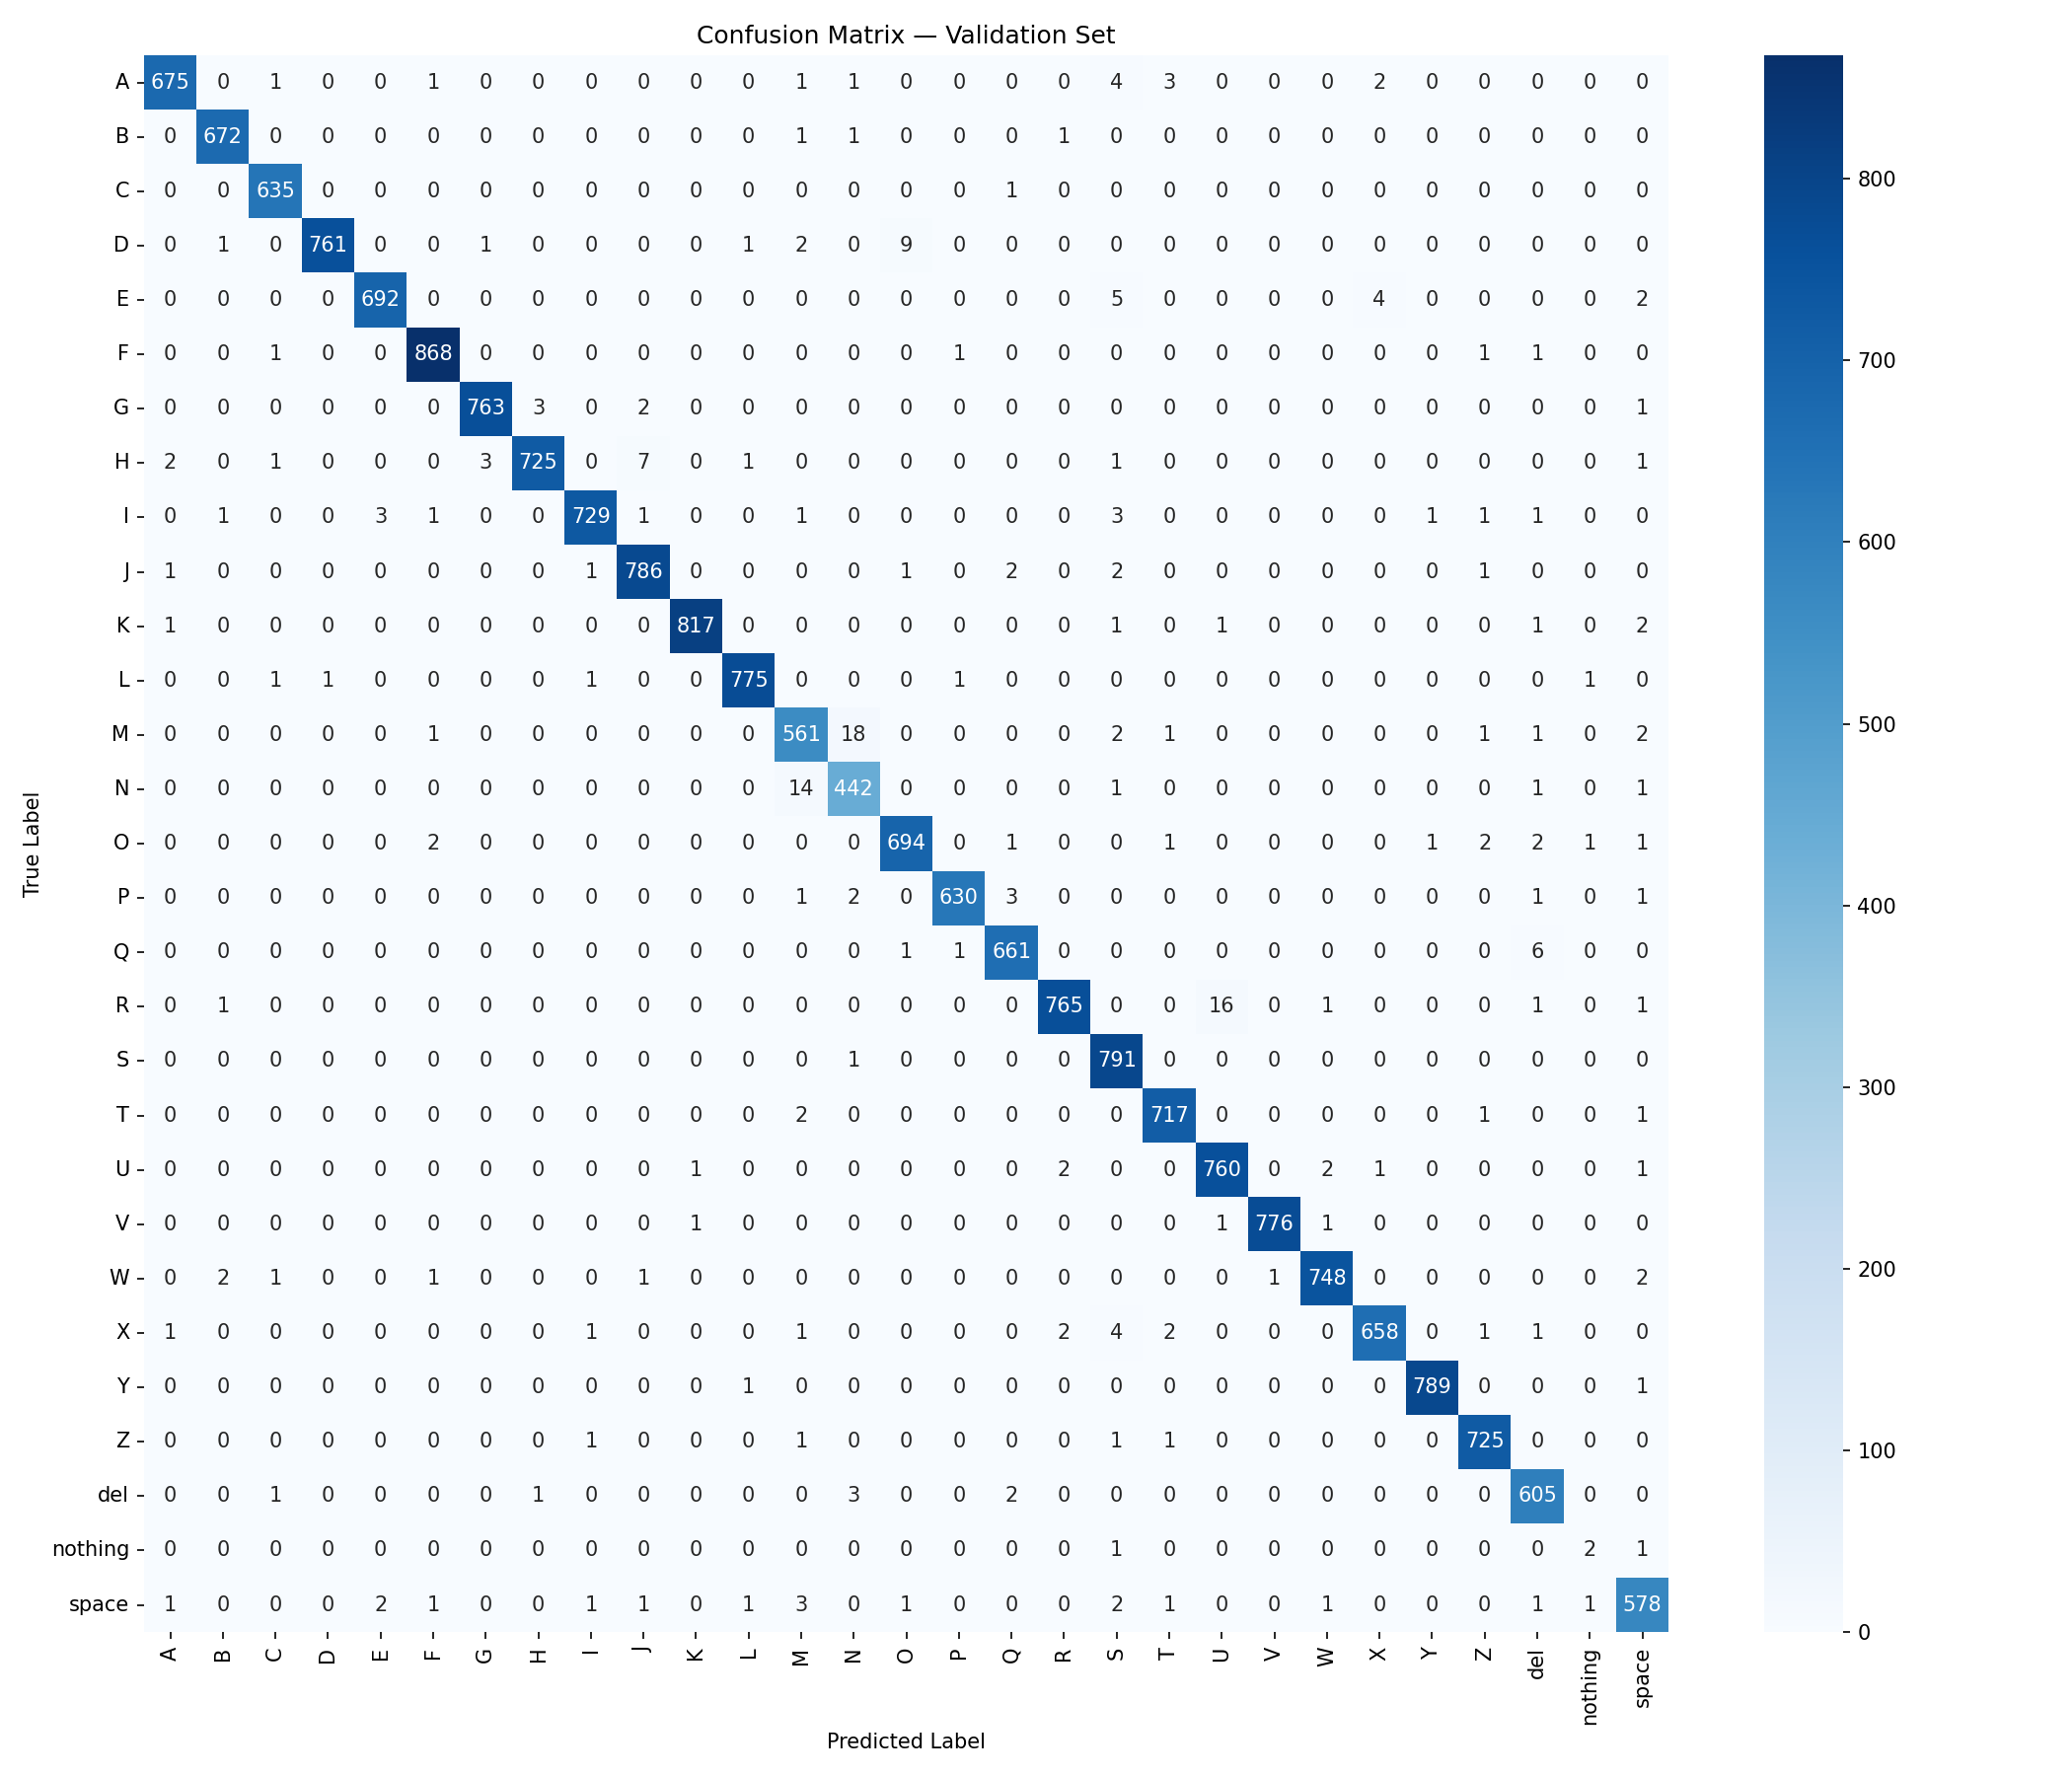
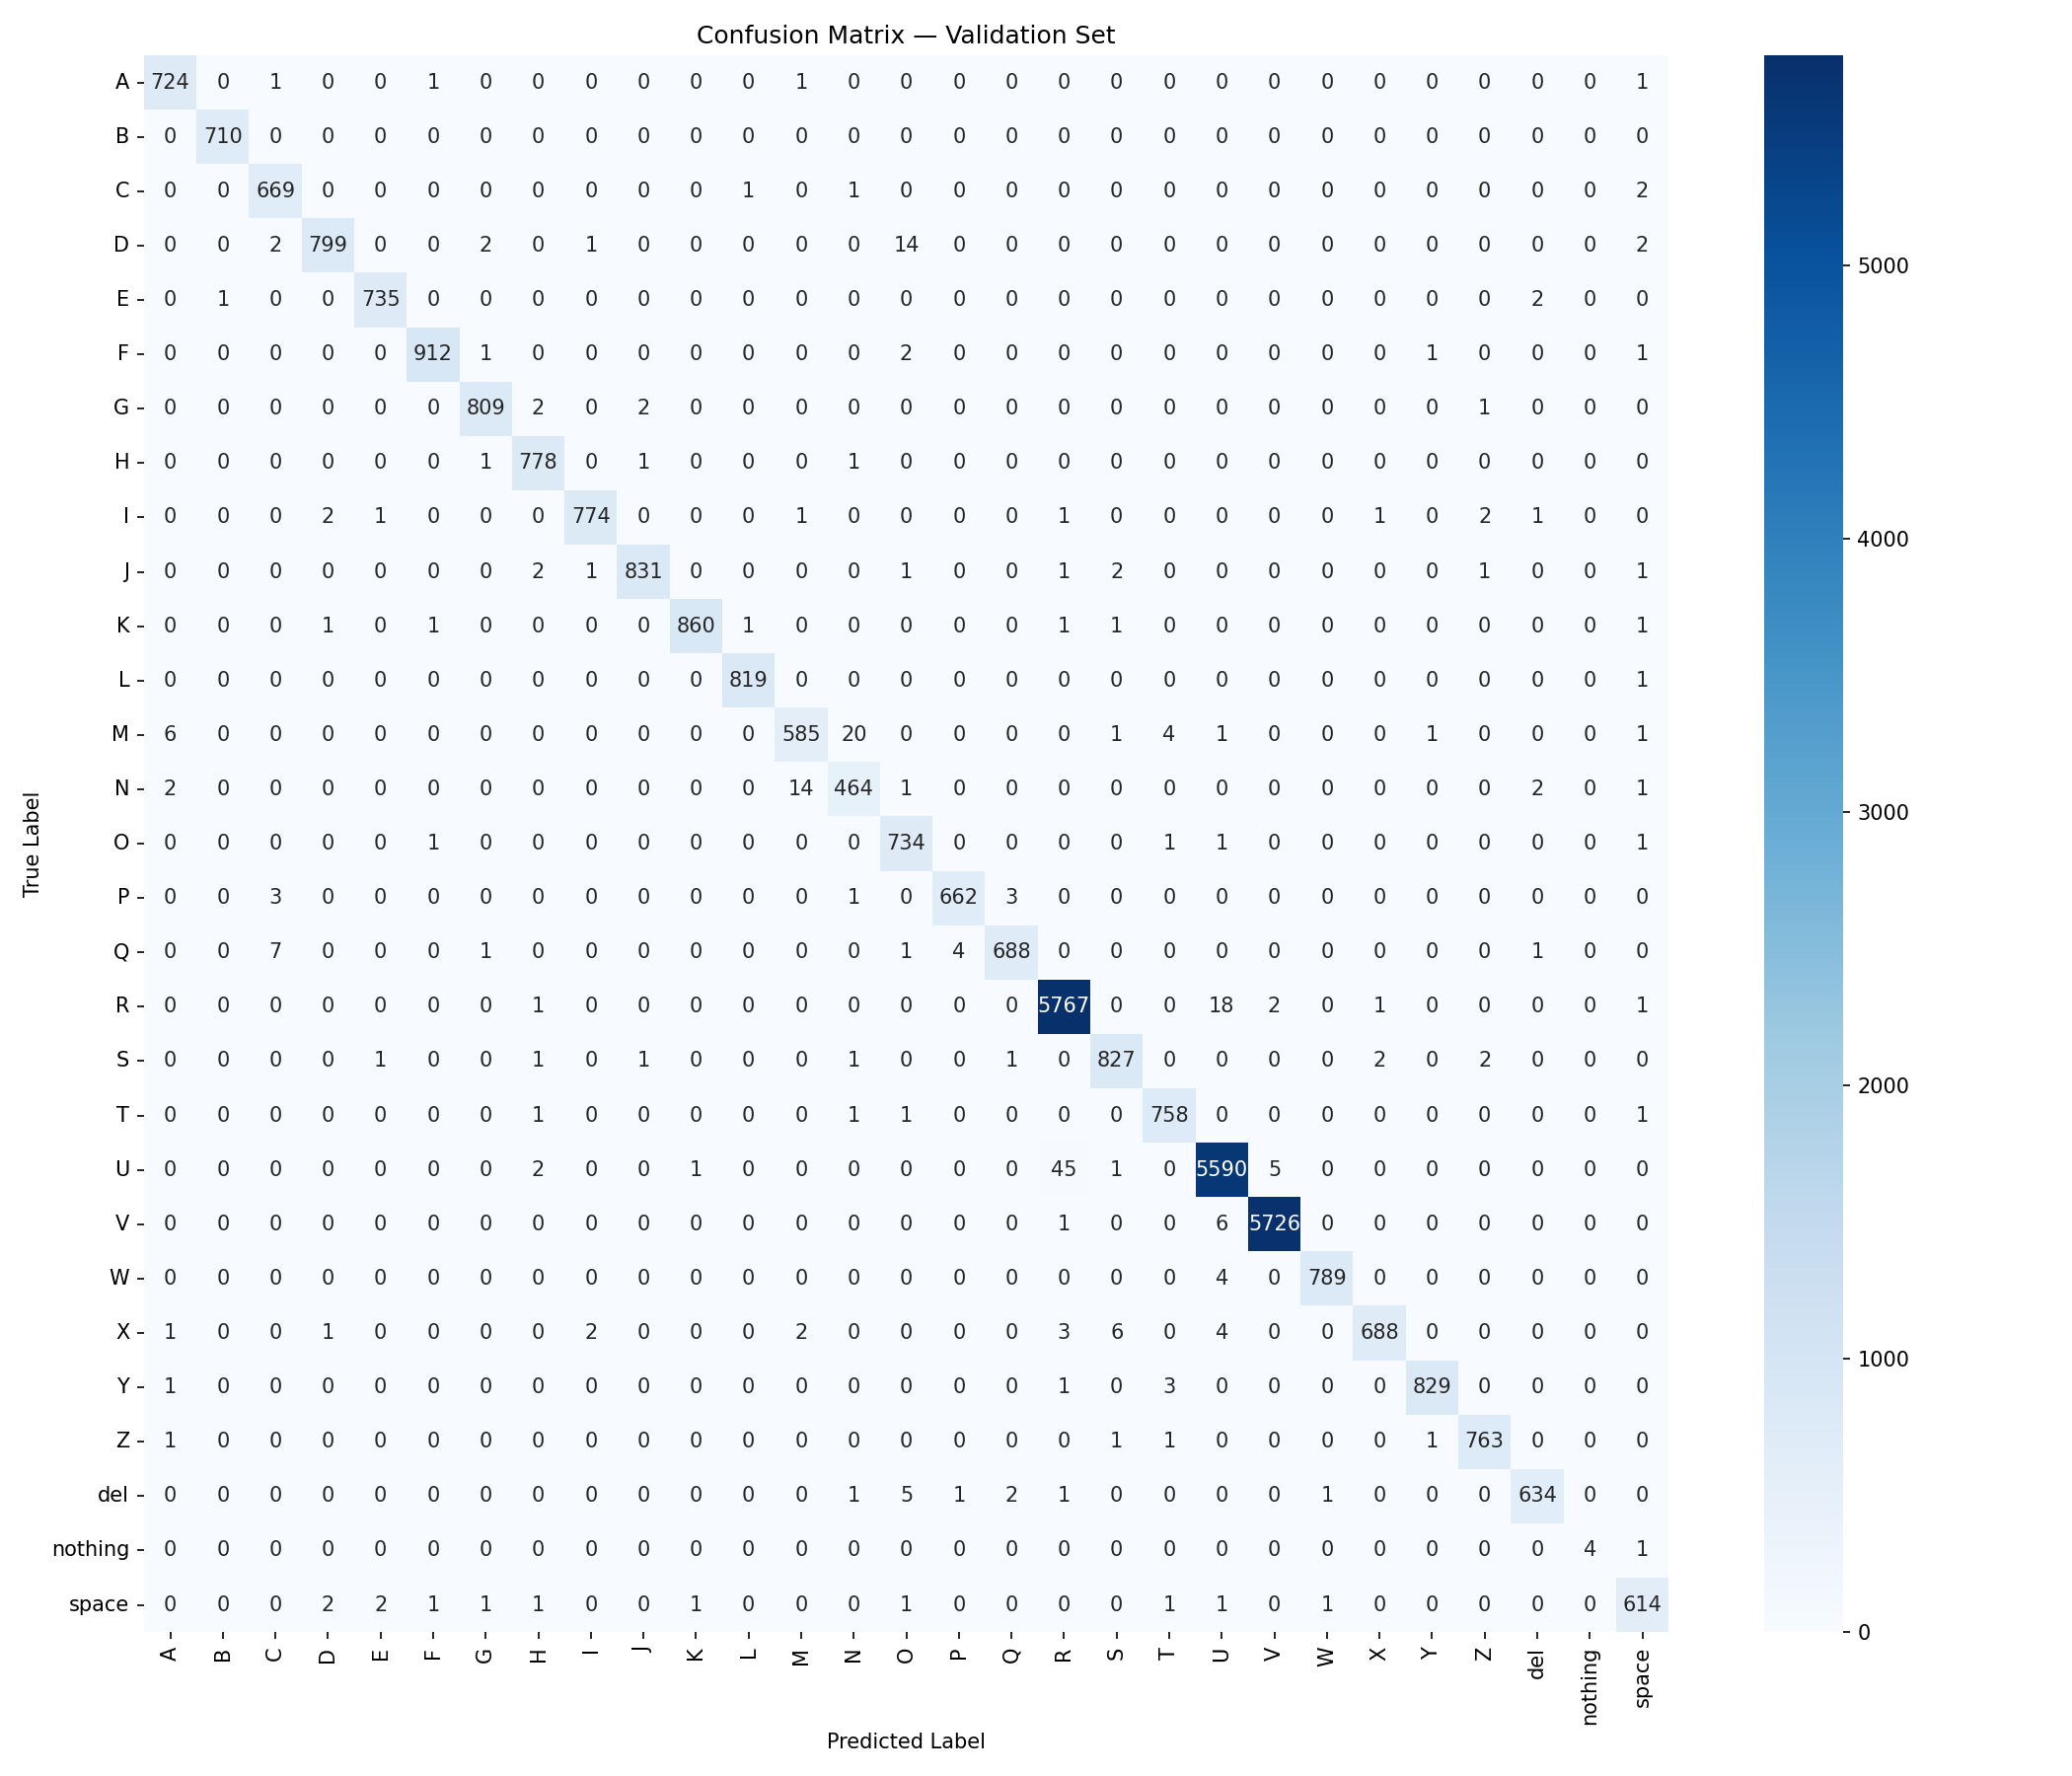
updated model to better differentiate r, u, and v

diff --git a/final-submission/CV_model.py b/final-submission/CV_model.py
@@ -1,45 +1,105 @@
 """
 Train an MLP classifier on MediaPipe hand landmarks to recognize ASL fingerspelling.
 
-Input:  landmarks.csv  — rows of (label, x0, y0, z0, ..., x20, y20, z20)
+Input:  landmarks.csv  — rows of (label, x0..z20) — 63 base dims
 Output: model.pkl      — trained sklearn MLPClassifier, ready for inference.py
 
-Architecture: 63 → 128 → 64 → 29 classes
+Architecture: 68 → 256 → 128 → 64 → C classes
+  (63 wrist-centered landmarks + 5 index–middle geometry features for R/U/V separation)
+
+Training extras:
+  - Mirror augmentation (left/right)
+  - Light pose jitter (rotation + noise) with extra copies for R, U, V
+  - Higher sample_weight on R, U, V
+
+Deps / venv (Windows): install into THIS folder's env so pip and python match, e.g.:
+  .\\env\\Scripts\\python.exe -m pip install -r requirements.txt
+  .\\env\\Scripts\\python.exe .\\CV_model.py
+Or run .\\install-training-deps.ps1 then use the same python.exe for training.
 """
 
 import pickle
-import pandas as pd
-import numpy as np
-from sklearn.neural_network import MLPClassifier
-from sklearn.model_selection import train_test_split
-from sklearn.preprocessing import LabelEncoder
-from sklearn.metrics import classification_report, confusion_matrix, accuracy_score
+
 import matplotlib.pyplot as plt
+import numpy as np
+import pandas as pd
 import seaborn as sns
+from sklearn.metrics import accuracy_score, classification_report, confusion_matrix
+from sklearn.model_selection import train_test_split
+from sklearn.neural_network import MLPClassifier
+from sklearn.preprocessing import LabelEncoder
+
+from landmark_features import (
+    FEATURE_DIM,
+    expand_feature_matrix,
+    mirror_base_x,
+    random_pose_augment,
+)
 
 LANDMARKS_CSV = "./landmarks.csv"
-MODEL_OUT     = "./model.pkl"
-ENCODER_OUT   = "./label_encoder.pkl"
-TEST_SIZE     = 0.15
-RANDOM_STATE  = 42
+MODEL_OUT = "./model.pkl"
+ENCODER_OUT = "./label_encoder.pkl"
+TEST_SIZE = 0.15
+RANDOM_STATE = 42
+
+# R / U / V: easy to confuse; give more synthetic views and loss weight
+RUV_LABELS = frozenset({"R", "U", "V"})
+RUV_EXTRA_AUG_PER_SAMPLE = 6
+RUV_SAMPLE_WEIGHT = 2.25
+POSE_NOISE_STD = 0.018
+POSE_MAX_ANGLE_RAD = 0.42
 
 # --- Load data ---
 print("Loading landmarks.csv...")
 df = pd.read_csv(LANDMARKS_CSV)
 print(f"  {len(df)} rows, {df['label'].nunique()} classes: {sorted(df['label'].unique())}")
 
-X = df.drop(columns=["label"]).values.astype(np.float32)
+X63 = df.drop(columns=["label"]).values.astype(np.float32)
 y = df["label"].values
 
-# Augment with mirrored (left-hand) versions of every sample by negating x coordinates.
-# x columns are at indices 0, 3, 6, ..., 60 (every 3rd starting at 0).
-X_mirrored = X.copy()
-X_mirrored[:, 0::3] *= -1
-X = np.concatenate([X, X_mirrored], axis=0)
+# --- Augment: mirror ---
+X_mirrored = mirror_base_x(X63)
+X63 = np.vstack([X63, X_mirrored])
 y = np.concatenate([y, y], axis=0)
-print(f"  After mirroring augmentation: {len(X)} total samples")
+print(f"  After mirroring: {len(X63)} samples")
 
-# --- Encode labels to integers ---
+# --- Extra pose jitter for R, U, V ---
+rng = np.random.default_rng(RANDOM_STATE)
+ruv_mask = np.isin(y, list(RUV_LABELS))
+extra_X = []
+extra_y = []
+for i in np.where(ruv_mask)[0]:
+    for _ in range(RUV_EXTRA_AUG_PER_SAMPLE):
+        aug = random_pose_augment(
+            X63[i],
+            rng,
+            noise_std=POSE_NOISE_STD,
+            max_angle_rad=POSE_MAX_ANGLE_RAD,
+        )
+        extra_X.append(aug)
+        extra_y.append(y[i])
+if extra_X:
+    X63 = np.vstack([X63, np.stack(extra_X, axis=0)])
+    y = np.concatenate([y, np.array(extra_y)], axis=0)
+    print(f"  After R/U/V pose augmentation: {len(X63)} samples (+{len(extra_y)} synthetic)")
+
+# --- Global light jitter (all classes) for robustness ---
+n_jitter = min(12_000, len(X63) // 4)
+if n_jitter > 0:
+    idx = rng.choice(len(X63), size=n_jitter, replace=False)
+    jitter_blocks = [
+        random_pose_augment(X63[i], rng, noise_std=POSE_NOISE_STD * 0.7, max_angle_rad=0.22)
+        for i in idx
+    ]
+    X63 = np.vstack([X63, np.stack(jitter_blocks, axis=0)])
+    y = np.concatenate([y, y[idx]], axis=0)
+    print(f"  After global light jitter: {len(X63)} samples")
+
+# --- Expand 63 → 68 ---
+X = expand_feature_matrix(X63)
+print(f"  Feature shape: {X.shape[1]} (= {FEATURE_DIM})")
+
+# --- Encode labels ---
 le = LabelEncoder()
 y_encoded = le.fit_transform(y)
 print(f"  Label mapping: {dict(zip(le.classes_, le.transform(le.classes_)))}")
@@ -50,19 +110,29 @@ X_train, X_val, y_train, y_val = train_test_split(
 )
 print(f"\nTrain: {len(X_train)} samples | Val: {len(X_val)} samples")
 
+ruv_class_idx = np.array(
+    [le.transform([c])[0] for c in RUV_LABELS if c in le.classes_],
+    dtype=int,
+)
+sample_weight = np.ones(len(y_train), dtype=np.float64)
+for j in ruv_class_idx:
+    sample_weight[y_train == j] = RUV_SAMPLE_WEIGHT
+
 # --- Train MLP ---
 print("\nTraining MLP...")
 model = MLPClassifier(
-    hidden_layer_sizes=(128, 64),
+    hidden_layer_sizes=(256, 128, 64),
     activation="relu",
-    max_iter=500,
+    alpha=1e-4,
+    max_iter=900,
     random_state=RANDOM_STATE,
     verbose=True,
     early_stopping=True,
     validation_fraction=0.1,
-    n_iter_no_change=15,
+    n_iter_no_change=20,
+    learning_rate_init=0.001,
 )
-model.fit(X_train, y_train)
+model.fit(X_train, y_train, sample_weight=sample_weight)
 
 # --- Evaluate ---
 y_pred = model.predict(X_val)
@@ -71,12 +141,32 @@ print(f"\nValidation accuracy: {acc:.4f} ({acc*100:.2f}%)")
 print("\nPer-class report:")
 print(classification_report(y_val, y_pred, target_names=le.classes_))
 
+# Highlight R, U, V confusion
+ruv_names = sorted(RUV_LABELS & set(le.classes_))
+if ruv_names:
+    print("\nR / U / V subset report:")
+    mask = np.isin(le.inverse_transform(y_val), ruv_names)
+    if mask.any():
+        print(
+            classification_report(
+                y_val[mask],
+                y_pred[mask],
+                labels=[le.transform([n])[0] for n in ruv_names],
+                target_names=ruv_names,
+                zero_division=0,
+            )
+        )
+
 # --- Confusion matrix ---
 cm = confusion_matrix(y_val, y_pred)
 plt.figure(figsize=(14, 12))
 sns.heatmap(
-    cm, annot=True, fmt="d", cmap="Blues",
-    xticklabels=le.classes_, yticklabels=le.classes_
+    cm,
+    annot=True,
+    fmt="d",
+    cmap="Blues",
+    xticklabels=le.classes_,
+    yticklabels=le.classes_,
 )
 plt.title("Confusion Matrix — Validation Set")
 plt.ylabel("True Label")
@@ -85,7 +175,7 @@ plt.tight_layout()
 plt.savefig("confusion_matrix.png", dpi=150)
 print("\nConfusion matrix saved to confusion_matrix.png")
 
-# --- Save model and encoder ---
+# --- Save ---
 with open(MODEL_OUT, "wb") as f:
     pickle.dump(model, f)
 with open(ENCODER_OUT, "wb") as f:

diff --git a/final-submission/inference.py b/final-submission/inference.py
@@ -19,11 +19,13 @@ import pickle
 import collections
 import cv2
 import mediapipe as mp
+
+from landmark_features import base_vector_from_mediapipe, expand_features
 from mediapipe.tasks import python
 from mediapipe.tasks.python import vision
 
 # --- Tunable UX parameters ---
-CONFIRM_FRAMES = 60   # frames a sign must be held before committing — lower = faster, higher = more deliberate
+CONFIRM_FRAMES = 20   # frames a sign must be held before committing — lower = faster, higher = more deliberate
 SMOOTH_WINDOW  = 7    # rolling window size for prediction smoothing
 
 MODEL_PATH          = "./model.pkl"
@@ -79,18 +81,13 @@ def init_landmarker(path):
 
 
 def extract_landmarks(result):
-    """Return normalized 63-length feature vector, or None if no hand detected."""
+    """Return model feature vector (63 base + geometry extras), or None if no hand."""
     if not result.hand_landmarks:
         return None
 
     lm = result.hand_landmarks[0]
-    wrist_x, wrist_y, wrist_z = lm[0].x, lm[0].y, lm[0].z
-    coords = []
-    for point in lm:
-        coords += [point.x - wrist_x, point.y - wrist_y, point.z - wrist_z]
-
-    max_val = max(abs(v) for v in coords) or 1.0
-    return [v / max_val for v in coords]
+    base = base_vector_from_mediapipe(lm)
+    return expand_features(base).tolist()
 
 
 def draw_caption(frame, text):

diff --git a/final-submission/extract_landmarks.py b/final-submission/extract_landmarks.py
@@ -11,10 +11,13 @@ Images that MediaPipe can't detect a hand in are skipped.
 
 import csv
 import os
+
 import cv2
 import mediapipe as mp
 from mediapipe.tasks import python
 from mediapipe.tasks.python import vision
+
+from landmark_features import base_vector_from_mediapipe
 
 DATA_DIR = "./asl_data/asl_alphabet_train/asl_alphabet_train"
 OUTPUT_CSV = "./landmarks.csv"
@@ -69,16 +72,7 @@ with open(OUTPUT_CSV, "w", newline="") as f:
                 continue
 
             lm = result.hand_landmarks[0]
-
-            # Normalize: subtract wrist position so hand location in frame doesn't matter
-            wrist_x, wrist_y, wrist_z = lm[0].x, lm[0].y, lm[0].z
-            coords = []
-            for point in lm:
-                coords += [point.x - wrist_x, point.y - wrist_y, point.z - wrist_z]
-
-            # Scale so max absolute value = 1 (makes hand size invariant)
-            max_val = max(abs(v) for v in coords) or 1.0
-            coords = [v / max_val for v in coords]
+            coords = base_vector_from_mediapipe(lm)
 
             writer.writerow([label] + coords)
             written += 1